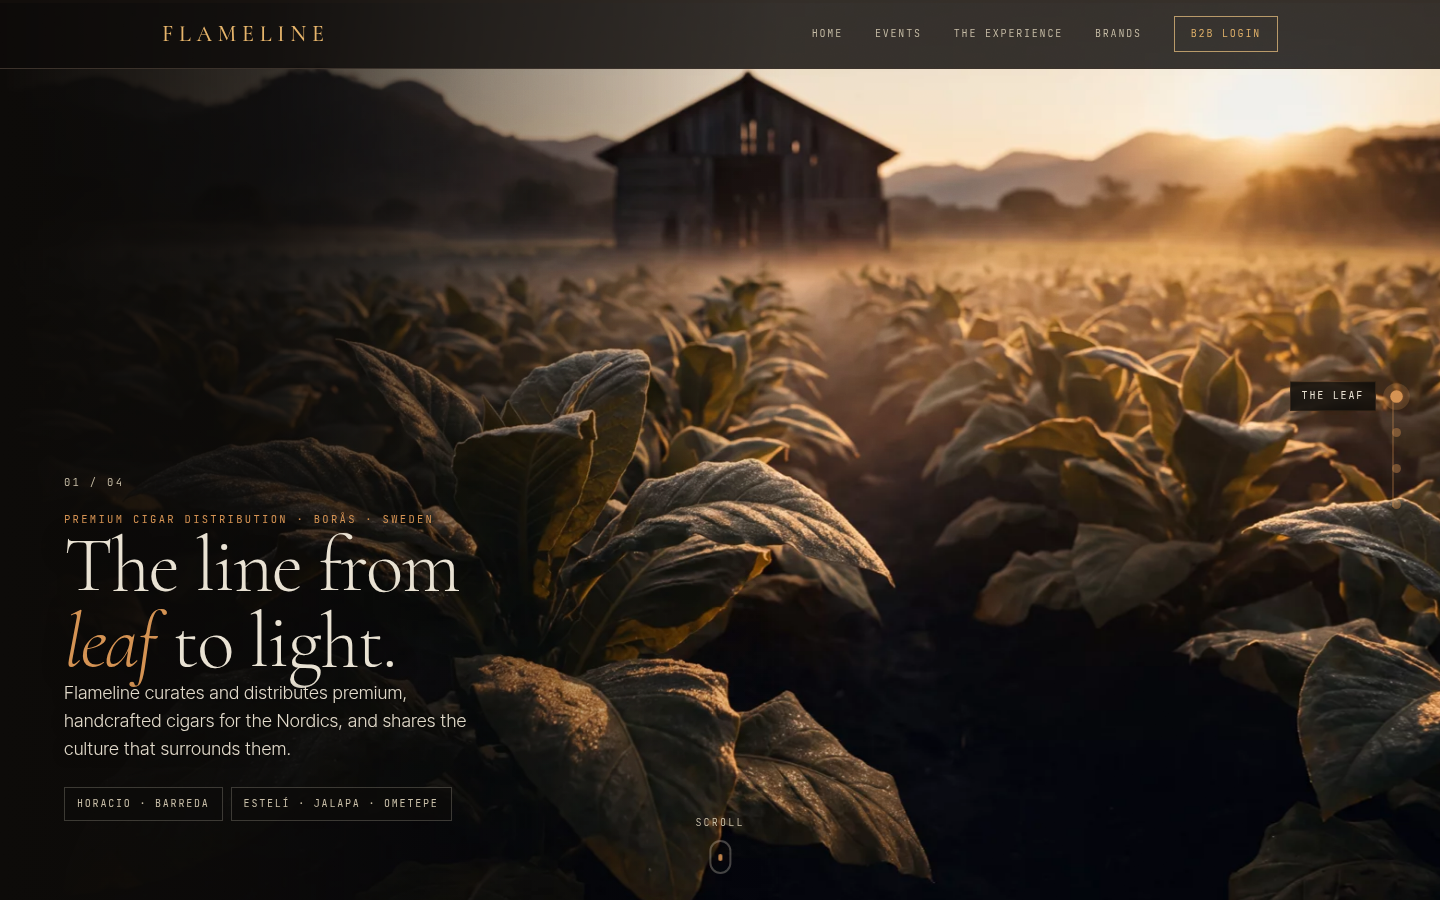
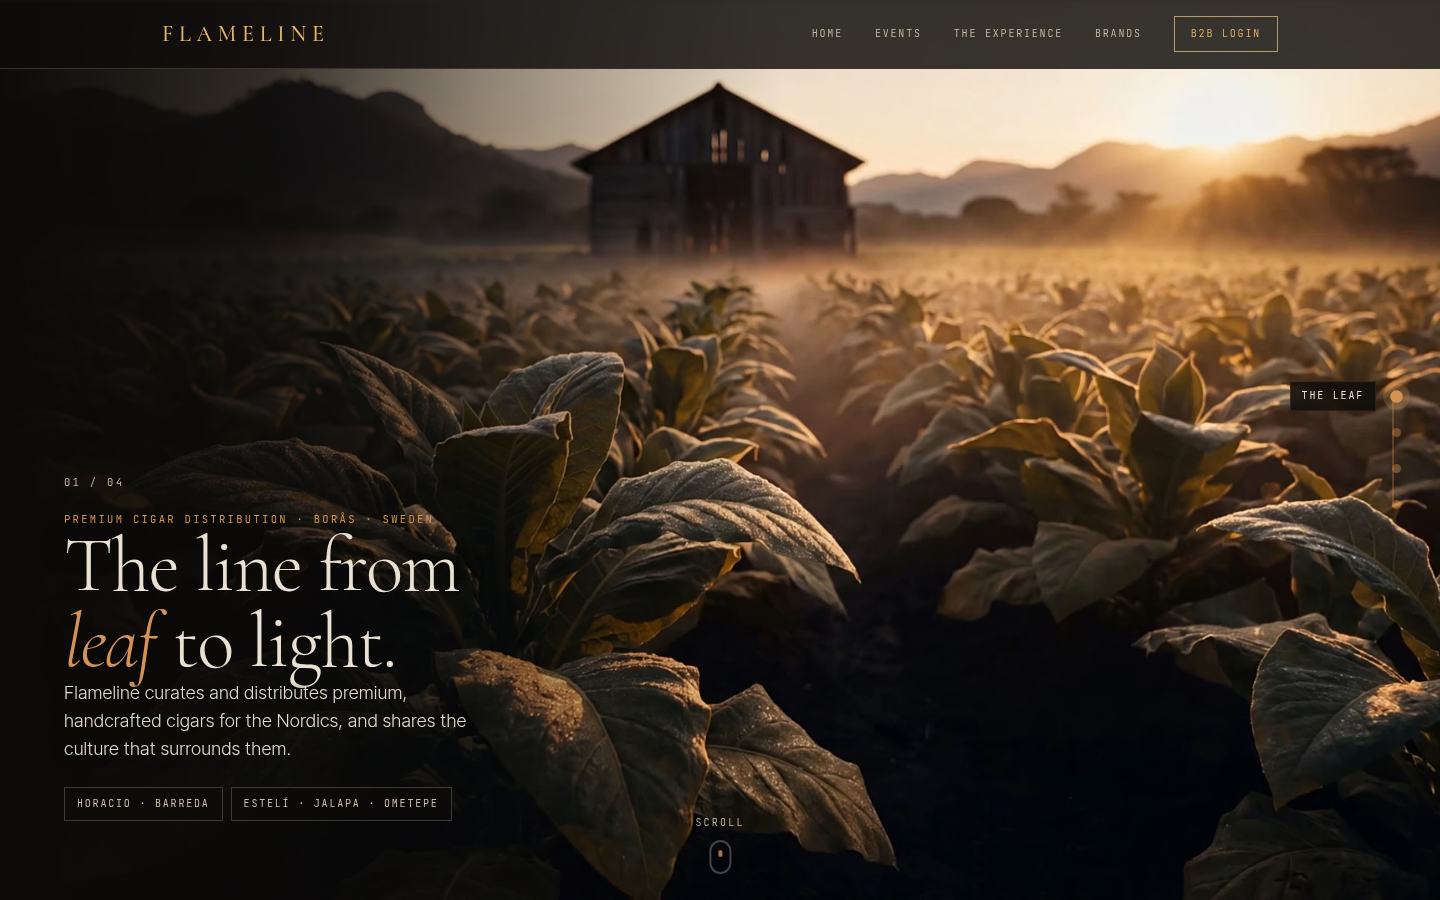
test: seam, reduced-motion and phone QA; VP9 shim for codec-less headless Chromium
Claude-Session: https://claude.ai/code/session_01RKmJ1iWrN7f18RWAJzrLnn

Changed region(s): [[0.1875, 0.0622, 1.0, 1.0], [0.8125, 0.9022, 0.9062, 1.0], [0.4062, 0.9333, 0.4375, 0.9956]]

diff --git a/tests/ffmpeg.test.ts b/tests/ffmpeg.test.ts
@@ -1,5 +1,5 @@
 import { test, expect } from "vitest";
-import { encodeArgs, posterArgs, uploadScaleArgs } from "../scripts/lib/ffmpeg.mjs";
+import { encodeArgs, posterArgs, uploadScaleArgs, vp9ShimArgs } from "../scripts/lib/ffmpeg.mjs";
 
 test("encodeArgs matches the spec", () => {
   expect(encodeArgs("a.mp4", "b.mp4").join(" ")).toBe(
@@ -13,4 +13,8 @@ test("posterArgs", () => {
 
 test("uploadScaleArgs caps width at 1920 and keeps aspect", () => {
   expect(uploadScaleArgs("a.png", "b.png").join(" ")).toBe("-y -i a.png -vf scale='min(1920,iw)':-2 b.png");
+});
+
+test("vp9ShimArgs keeps the scrub GOP and drops audio (QA-only transcode for codec-less Chromium)", () => {
+  expect(vp9ShimArgs("a.mp4", "b.mp4").join(" ")).toBe("-y -i a.mp4 -an -c:v libvpx-vp9 -deadline realtime -cpu-used 8 -crf 30 -b:v 0 -g 8 -keyint_min 8 -pix_fmt yuv420p b.mp4");
 });
